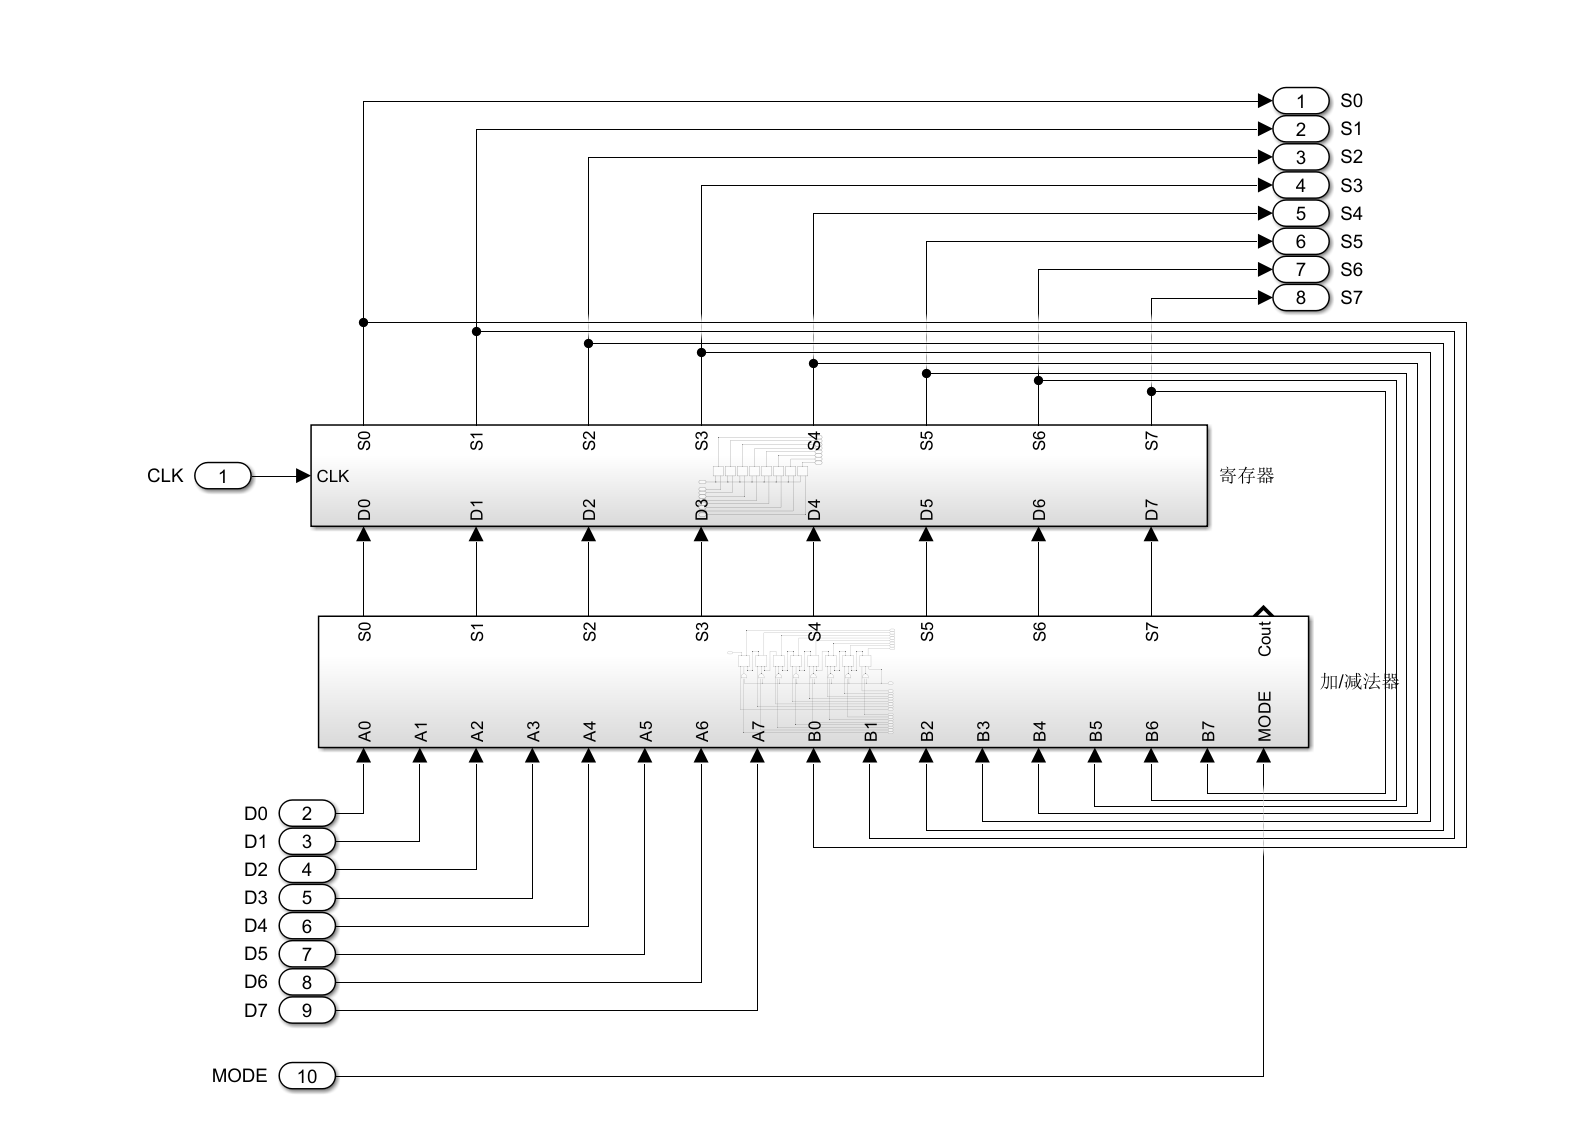
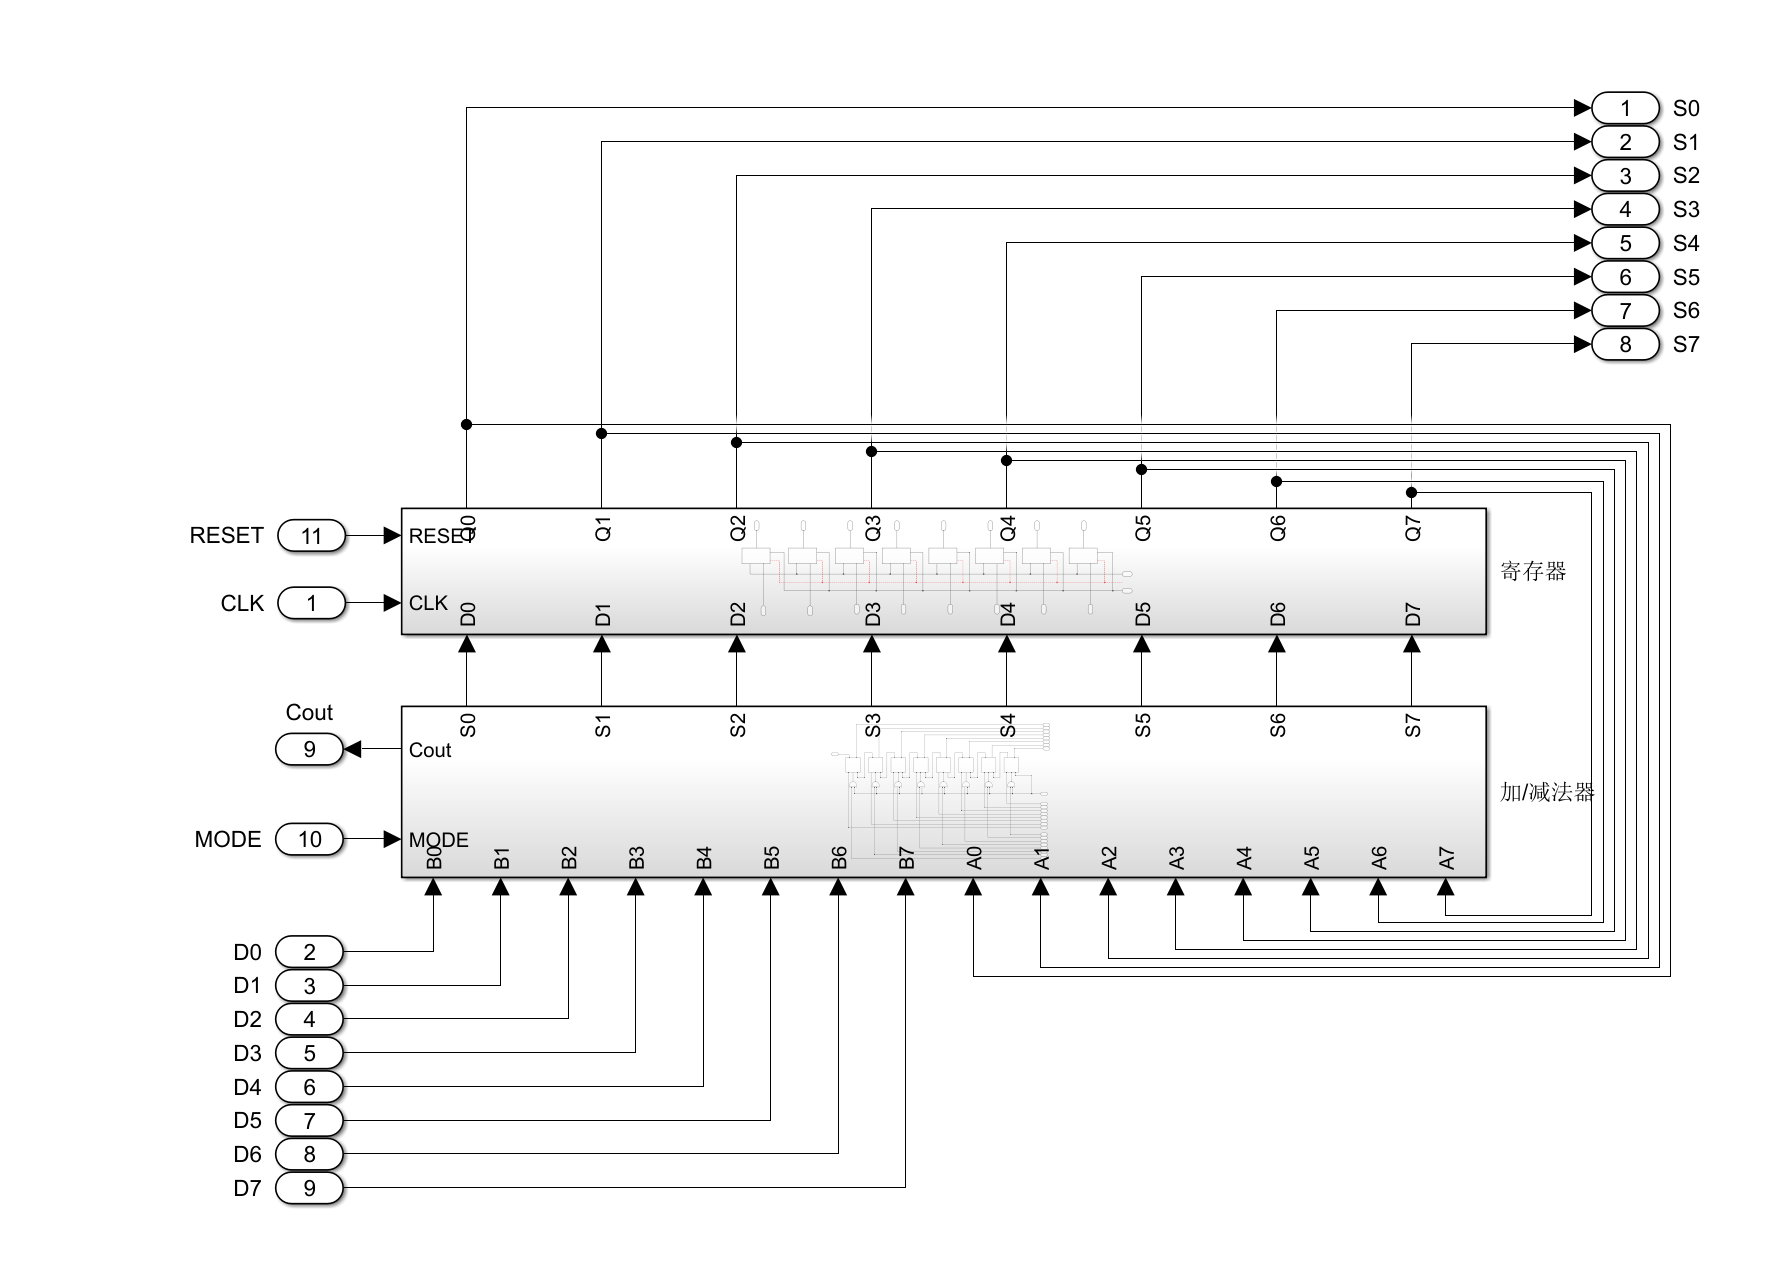
自动提交，未输入备注

diff --git a/电路组学习目录/5 简单数电＆STM32硬件结构.md b/电路组学习目录/5 简单数电＆STM32硬件结构.md
@@ -336,6 +336,7 @@ S_1:~A=1,~B=0
 ```
 - 之前说过，组合逻辑的特点是同样的输入得到的一定是同样的输出，但是现在这个电路没有任何的输入，A的输出却有两种不同的可能，A的输出取决于我之前让这个电路处在了哪一个状态，这个电路的逻辑跟我之前进行过的输入有关，也就是说这个电路记住了我之前的操作，这个电路有记忆的能力。
 - 我们如果规定A为这个电路存储的数据，那么状态 $S_0$ 就是电路储存的数据是 $A=0$ ，状态 $S_1$ 就是电路储存的数据是 $A=1$ ，改变电路的状态就能改变存储的数据。
+##### RS触发器
 - 现在的电路没有任何的输入引脚，我们还没法改变其状态，我们可以在其中插入两个或门，之前提到或门可以合并两路信号，我们的或门可以把我们想输入的信号和两个非门的回环中的信号合并在一起，组成如下图的电路
 ![图5-8-2 RS触发器](pictures/5-8-2.png)
 - 前面八大逻辑门的章节提到或门加一个非门就是一个或非门，这里将本来的两个非门和我们新插入的两个或门合并在了一起，变成了两个或非门。
@@ -345,10 +346,12 @@ S_1:~A=1,~B=0
 - RS触发器的波形图如下
 ![图5-8-3 RC触发器波形图](pictures/5-8-3.png)
 - R，S两个引脚正常情况下默认输入0，如果我们给S输入一个脉冲，Q的值会被强制设置为1，如果给R输入一个脉冲，Q的值会被强制设置为0，我们可以通过分别给R，S引脚输入脉冲来改变电路储存的数据Q。
+##### RS锁存器
 - RS触发器严禁同时给R,S输入脉冲，否则会造成振荡和状态的不确定，为了更安全的储存数据，我们将RS触发器作如下改动
 ![图5-8-4 RS锁存器](pictures/5-8-4.png)
 - 上图称为RS锁存器，我们分别给R,S增加了一个与门作为开关，当 $CLK=0$ 时，两个与门的输出永远为0，不论RS输入什么，Q都保持不变，当 $CLK=1$ 时，两个与门开启，RS的信号传入。
 - 我们使用与门作为开关，在RS信号准备好后再开启开关传入信号，可以避免RS信号的时间有误差导致混乱，此做法称为同步，即用与门作为开关，信号准备好后再开启，如果没有同步用的与门的电路，我们称之为异步，比如之前说的异步加减法器。
+##### D锁存器
 - 我们发现每次开启与门时，我的输入要么是 $R=0,S=1$ ，结果 $Q=1$ ，要么是 $R=1,S=0$ ，结果 $Q=0$ ，如果输入 $R=0,S=0$ 则不会发生任何改变，没有意义，我们的目标是只要CLK有信号，就代表着我想给锁存器写入新的值了，所以我的输入必须是明确的，不能是 $R=0,S=0$ ，综上，我输入的R跟S一定是个相反的数字，为了节约引脚，简化使用方法，我们可以使用一个非门来省略掉R引脚，变成下图所示
 ![图5-8-5 D锁存器](pictures/5-8-5.png)
 - 图中是D型锁存器，输入我想储存的数据D，然后给CLK一个脉冲，Q就会变成跟D相等的值，成功保存了我输入的值。
@@ -359,6 +362,7 @@ S_1:~A=1,~B=0
 - 但是D型锁存器有一个严重的缺陷，在输入下图的十分混乱的波形时会体现出来
 ![图5-8-7 D锁存器混乱波形图](pictures/5-8-7.png)
 - CLK为1的那一段时间内电路如同中继器，信号可以随意的穿过锁存器，锁存器的值可以随意改变，这在大多数时序电路里，D型锁存器在这段时间里输出的跳变会造成极其严重的后果，我们希望锁存器在任何时刻都不会随意改变，也就是保存数据的动作仅发生在一瞬间，而不是CLK为1的那一段时间，为此我们会使用一种叫做边沿锁存器的电路，如下图
+##### 边沿D锁存器
 ![图5-8-8 上升边沿锁存器](pictures/5-8-8.png)
 - 如图为上升边沿锁存器，这个锁存器仅在上升边沿到来的那一瞬间进行锁存，输出永远不会跟着输入乱跳变。
 - 上升边沿由两个D型锁存器组成，两个D型锁存器其中一个的时钟连接了一个非门，也就是说两个时钟是相反的。
@@ -381,18 +385,74 @@ S_1:~A=1,~B=0
 - 可以看到每次输出Q的改变都发生在时钟CLK的下降边沿，故名下降边沿锁存器。
 - 上升和下降边沿锁存器也可称为边沿D型锁存器，在现代的各种芯片中，不是边沿触发的锁存器已经几乎不存在了，所以只要提到D型锁存器，默认都是边沿触发的边沿D型锁存器，即使数据手册中并没有专门写上。
 - 为了实现更多功能，我们会给边沿锁存器增加置位和重置的功能
+##### 带置位和重置的边沿D锁存器
 ![图5-8-13 带置位和重置的边沿锁存器](pictures/5-8-13.png)
 - 上图是一个带置位和重置的边沿锁存器，与之前的边沿锁存器不同的地方在于，内部的第二级D锁存器的两个或非门变成了三输入，多出来的那两个输入引了出来成为R，S引脚，通过R，S引脚我们可以不通过时钟强制给锁存器清零或者置1。
 #### 5.8.2 寄存器
 - 将多个锁存器器排成一排，便能存储一个多位的二进制数，我们称为寄存器，如下图是一个八位寄存器
-![图5-8-15 八位寄存器](pictures/5-8-15.png)
+![图5-8-15 八位寄存器](pictures/5-8-14.png)
 - 输入一个八位二进制数，再给CLK一个时钟脉冲，寄存器就能储存我们输入的数字。
+- 给RESET一个脉冲，我们就能清空寄存器中的内容
+- 给SET一个脉冲，就能让寄存器内容全部置1
 #### 5.8.3 累加器
-- 时序电路本质上就是组合逻辑与寄存器组合成的电路，比如说接下来的八位累加器。
-![图5-8-16 累加器](pictures/5-8-16.png)
-- 之前的加法器只能计算两个数字加法，但是当我们
-#### 5.8.4 定时器
+- 时序电路本质上就是组合逻辑与寄存器组合成的电路，可以实现更多有时间顺序的逻辑。
+- 之前的加法器只能计算两个数字加减法，但是当我们想要计算大量数字的加减法时，我们就需要累加器。
+- 累加器可以依次把多个数字相加减，其结构如下图所示。
+![图5-8-16 累加器](pictures/5-8-15.png)
+- 累加器由一个加减法器和一个寄存器组成，结构是加法器的输出连接寄存器的输入，寄存器的输出作为累加器的输出，同时寄存器的输出也转一圈输入到加减法器的输入A，要加的数据输入给加法器的输入B。
+- 用数学公式写出来就是：
+累加器输入数据 $D$ ， 累加器输出 $S$ \
+加法器输入 $A,B$ ，加法器输出 $S$ \
+寄存器输入 $D$ ， 寄存器输出 $Q$ \
+则有： 
+```math
+\begin{aligned}
+S&=A \pm B \\
+D&=S \\
+if(CLK):Q&=D \\
+A&=Q
+\end{aligned}
+```
+如果用C语言写出同样的逻辑，就是
+```c
+while(){
+    if(MODE == 0){S = A + B;}   
+    //如果是加法模式，计算A+B
+    if(MODE == 1){S = A - B;}   
+    //如果是减法模式，计算A-B
+    if(CLK){A = S;}
+    //如果时钟信号到来，让寄存器保存加法器的S输出，并输出给B
+    CLK = 0;
+    //CLK = 0是为了模拟出寄存器边沿触发的效果
+}
+```
+- 如果我们要用上面的加法器计算5+7-9的结果，我们要做的就是 \
+ $1.$ 给RESET输入一个脉冲，清空当前寄存器中的结果\
+ \# 此时寄存器的输出是0，加法器的输入A是0（连接的寄存器）\
+ $2.$ 将数字5（二进制是101）作为D输入给累加器，MODE输入0（加法模式）\
+ \# 此时加法器的输入B是5，输入A是0，输出S是5\
+ $3.$ 给CLK输入一个脉冲，当前加法器的结果保存到寄存器\
+ \# 此时寄存器的输出是5，加法器的A输入也是5（连接的寄存器）\
+ $4.$ 将数字7输入给累加器，MODE输入0（加法模式）\
+ \# 此时加法器的输入B是7，输入A是5，输出是12\
+ $5.$ 给CLK输入一个脉冲，当前加法器的结果保存到寄存器\
+ \# 此时寄存器的输出是12，加法器的A输入也是12（连接的寄存器）\
+ $6.$ 将数字9输入给累加器，MODE输入1（减法模式）\
+ \# 此时加法器的输入B是9，输入A是12，输出是3\
+ $7.$ 给CLK输入一个脉冲，当前加法器的结果保存到寄存器，此时寄存器输出的结果就是5+7-9的结果3，完成了多个数字的加法。
 
+ - 如果总结要让多个数字累加的步骤，就是\
+ 先reset清空寄存器\
+ 输入一个数字及其MODE选择加减的操作\
+ CLK脉冲保存\
+ 循环输入数字，MODE和CLK，直到所有数字输入完为止。\
+ 最后寄存器的输出就是我们要的结果。
+
+ - 累加器实现了对加法器的分时复用，我们很难做出一个巨大的加法器加很多个数字，我们就可以使用累加器，把要输入的数字按时间顺序输入。
+ - 这里每一个CLK脉冲就可以计算一个加数，我们管执行某个操作需要的CLK数量称为这个操作的指令周期。比如这个累加器计算一次加减法需要1个CLK，我们就称加减法的指令周期为1。
+- CLK的速率越快，这个累加器能计算加减法的速率就越快，时钟频率决定了这个累加器的性能。
+#### 5.8.4 定时器
+#####
 #### 5.8.5 时钟
 
 #### 5.8.6 信号的竞争与冒险
